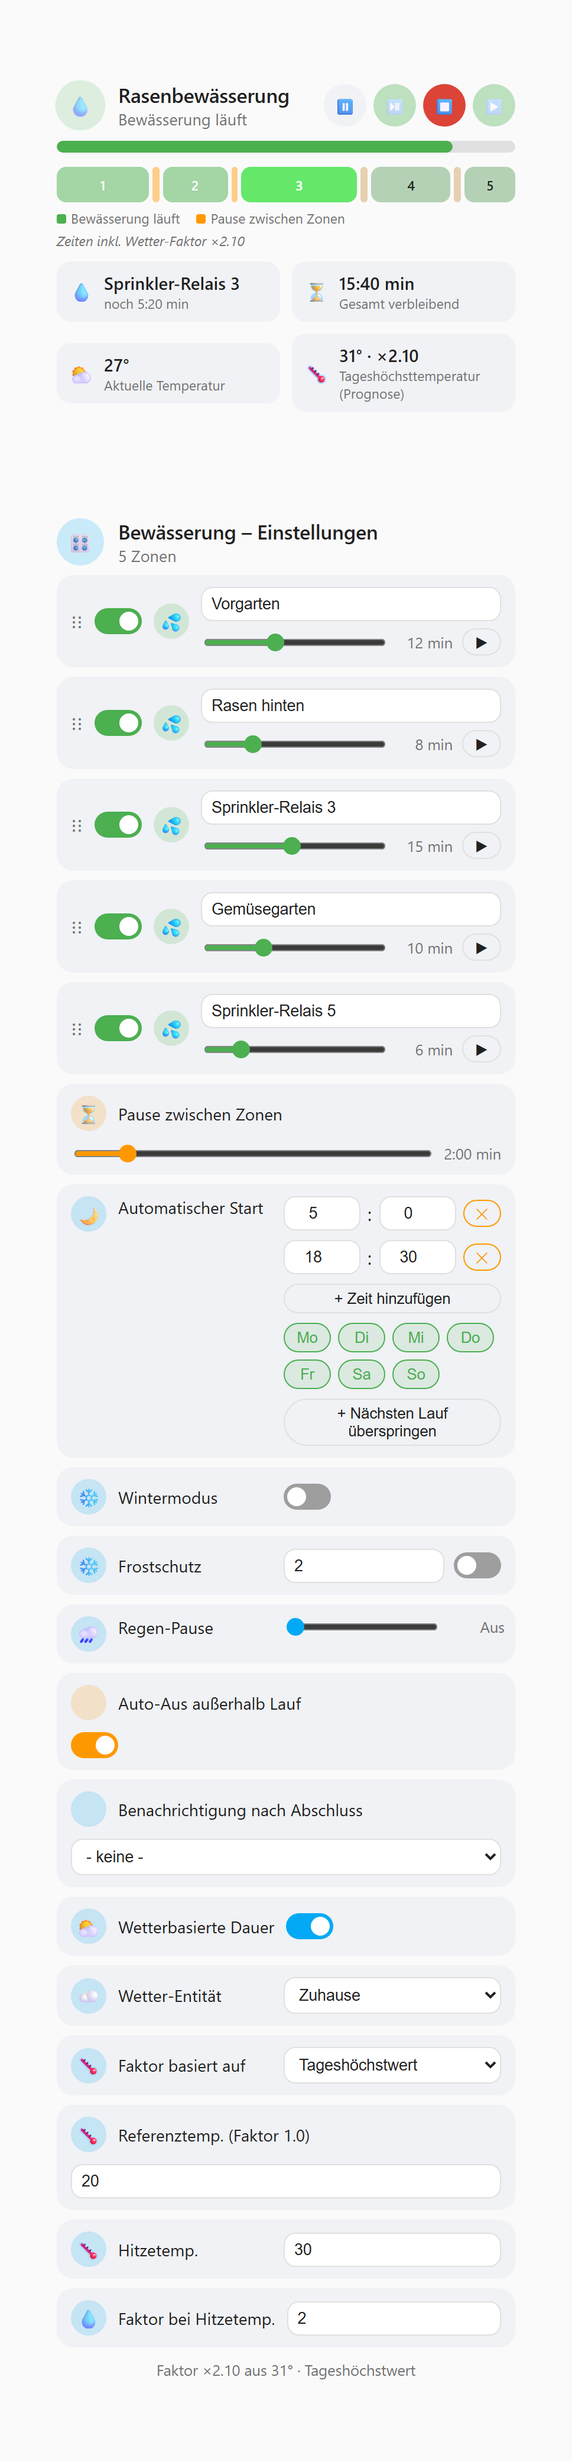
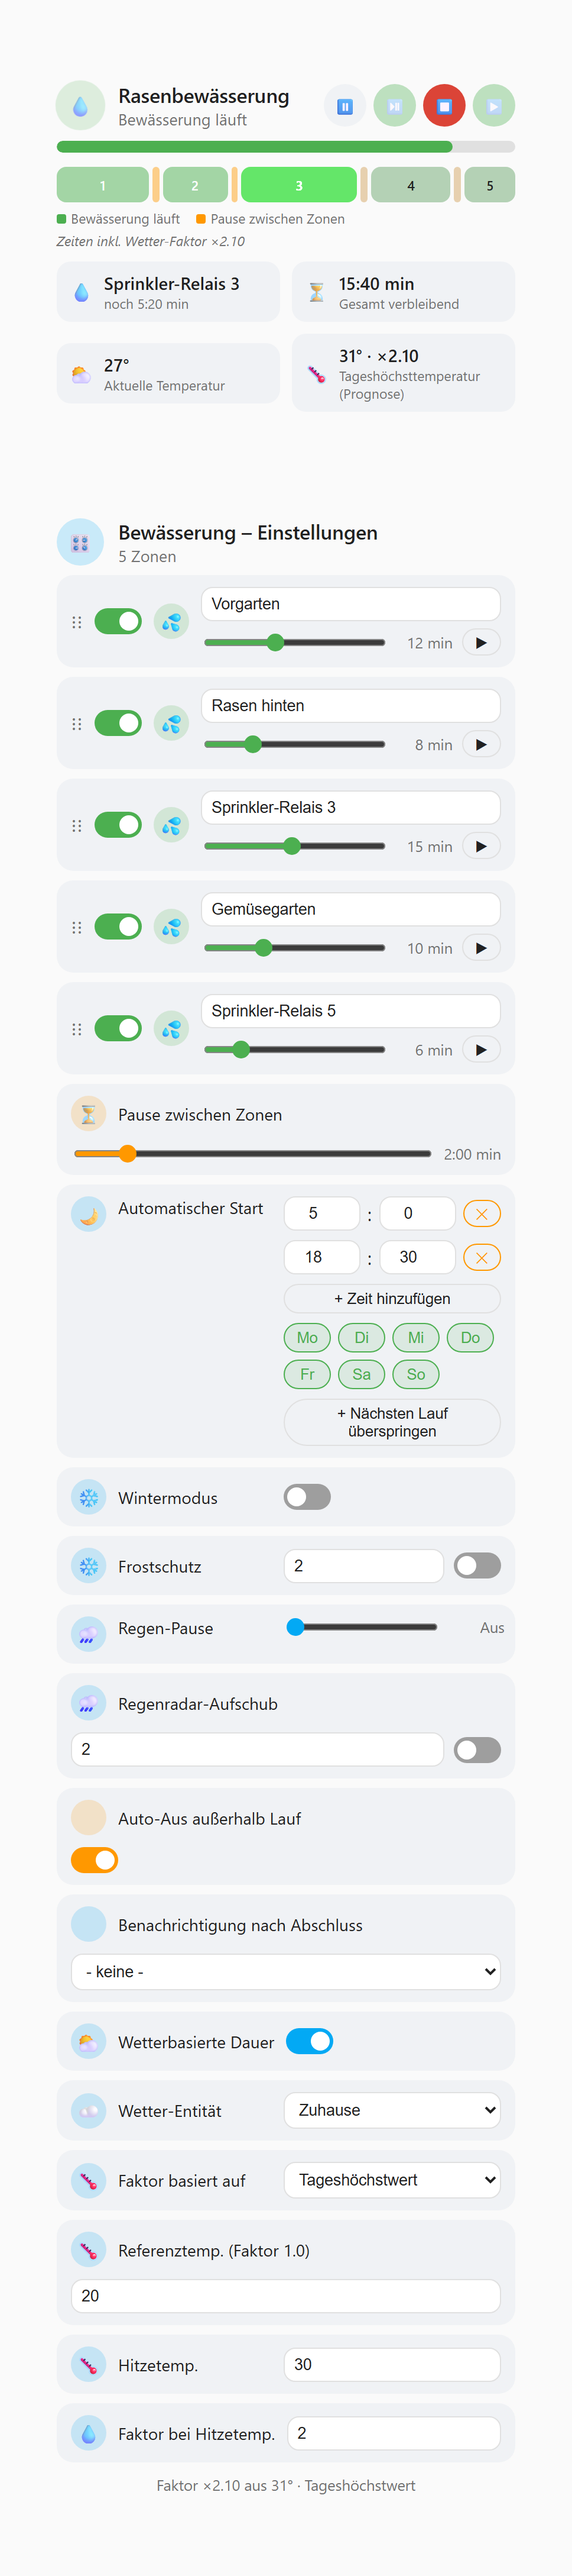
Docs (EN/DE), changelog and screenshots for v1.10.0 (#78)

diff --git a/custom_components/irrigation_sequencer/frontend/irrigation-sequencer-card.js b/custom_components/irrigation_sequencer/frontend/irrigation-sequencer-card.js
@@ -22,7 +22,7 @@ const DEFAULT_ZONE_DURATION_MINUTES = 10;
 // browser console, whether an update actually took effect versus just
 // looking "the same" as before. Keep this in step with manifest.json's
 // "version" on every release.
-const CARD_VERSION = "1.9.0";
+const CARD_VERSION = "1.10.0";
 // eslint-disable-next-line no-console
 console.info(
   `%c IRRIGATION-SEQUENCER-CARD %c v${CARD_VERSION} `,

diff --git a/README.de.md b/README.de.md
@@ -61,6 +61,12 @@ im Browser ausprobieren kannst.*
   mit Startzeit, Auslöser, Wassersekunden und Wetterfaktor gespeichert –
   die Status-Card zeigt die letzten Läufe, der volle Verlauf (30 Einträge)
   steht im Sensor-Attribut für Templates und Automationen
+- **Automatischer Regen-Aufschub** – geplante Läufe optional auslassen,
+  wenn die Prognose für heute mindestens eine Schwellwert-Menge Regen
+  erwartet (Standard 2 mm) – strikt Opt-in (Standard aus), mit eigenem
+  Schalter, Service und Status. Nutzt die Wetter-Entität aus dem
+  Wetter-Bereich; blockiert nie ohne Prognosedaten; manuelle Starts gehen
+  trotzdem
 - **Sequenz mit fester Reihenfolge** – jede Zone wird nacheinander bewässert,
   die Reihenfolge lässt sich in der Settings-Card per Drag & Drop ändern
 - **Individuelle Dauer pro Zone** – jede Zone hat ihre eigene Bewässerungsdauer (Minuten)
@@ -253,7 +259,7 @@ Nur die *anfängliche* Zonen-Auswahl ist ein klassischer "Einrichtungsdialog"
   Dialog-Einstellungen, sondern Live-Werte, die du direkt über die
   Settings-Card änderst (empfohlen), über die bereitgestellten Entitäten
   `switch.*_winter_mode` / `switch.*_weather_adjustment` /
-  `switch.*_frost_protection` und die `button.*`-Entitäten (Start, Stopp,
+  `switch.*_frost_protection` / `switch.*_rain_delay` und die `button.*`-Entitäten (Start, Stopp,
   Pause, Fortsetzen, Einzeltest, Skip), oder über die
   Services unten (praktisch für eigene Automationen, z. B. "Wintermodus jedes
   Jahr am 1. November aktivieren"). Der ▶-Button in einer
@@ -280,6 +286,7 @@ eigene Automationen:
 | `irrigation_sequencer.skip_next_run` | Nächsten geplanten Lauf einmal überspringen |
 | `irrigation_sequencer.clear_skip_next_run` | Vorgemerktes Überspringen zurücknehmen |
 | `irrigation_sequencer.set_frost_protection` | Geplante Läufe ab/unter Temperatur-Schwellwert blockieren |
+| `irrigation_sequencer.set_rain_delay` | Geplante Läufe bei Prognoseregen automatisch auslassen (Opt-in, Standard aus) |
 | `irrigation_sequencer.set_pause_between_zones` | Pause zwischen Zonen setzen |
 | `irrigation_sequencer.set_start_times` | Tägliche Startzeiten setzen (1–3) |
 | `irrigation_sequencer.set_rain_pause` | Regen-Pause für 1–24 Tage setzen |

diff --git a/README.md b/README.md
@@ -56,6 +56,11 @@ Home Assistant instance.*
   recorded with start time, trigger, watered seconds and weather factor -
   the status card shows the recent runs, the full history (30 entries)
   lives in the sensor attribute for templates and automations
+- **Automatic rain delay** - optionally skip scheduled runs when the
+  forecast expects at least a threshold amount of rain today (default
+  2 mm) - strictly opt-in (off by default), with its own switch, service
+  and status. Uses the weather entity from the weather section; never
+  blocks without forecast precipitation data; manual starts still work
 - **Sequential order** - each zone is irrigated one after another; the order
   can be changed by drag & drop directly in the settings card
 - **Per-zone duration** - every zone has its own irrigation duration (minutes)
@@ -231,7 +236,8 @@ else is a live setting, not a one-time config step:
   between zones, weather adjustment**: these are not part of a config dialog
   at all - they are live settings you change directly through the settings
   card (recommended), through the exposed `switch.*_winter_mode` /
-  `switch.*_weather_adjustment` / `switch.*_frost_protection` entities and
+  `switch.*_weather_adjustment` / `switch.*_frost_protection` /
+  `switch.*_rain_delay` entities and
   the `button.*` entities (start, stop, pause, resume, single test, skip),
   or via the services below (handy for your own automations, e.g. "turn on
   winter mode every November 1st"). The ▶ button on a zone's
@@ -257,6 +263,7 @@ automations:
 | `irrigation_sequencer.skip_next_run` | Skip the upcoming scheduled run once |
 | `irrigation_sequencer.clear_skip_next_run` | Take back a pending one-shot skip |
 | `irrigation_sequencer.set_frost_protection` | Block scheduled runs at/below a temperature threshold |
+| `irrigation_sequencer.set_rain_delay` | Auto-skip scheduled runs from forecast rain (opt-in, off by default) |
 | `irrigation_sequencer.set_pause_between_zones` | Set the pause between zones |
 | `irrigation_sequencer.set_start_times` | Set the daily start times (1-3) |
 | `irrigation_sequencer.set_rain_pause` | Pause irrigation for 1-24 days |

diff --git a/CHANGELOG.md b/CHANGELOG.md
@@ -5,6 +5,20 @@ All notable changes to this project are documented here. Versioning follows
 `custom_components/irrigation_sequencer/manifest.json` and tagged as a
 GitHub release (`vX.Y.Z`) once pushed.
 
+## [1.10.0] - 2026-10-03
+
+- **Automatic rain delay** (fixes
+  [#78](https://github.com/ReneSattler/ha-irrigation-sequencer/issues/78)):
+  strictly opt-in (default off) block of scheduled runs when the daily
+  forecast expects at least a threshold amount of rain for today
+  (default 2 mm, 0.5..20 mm range). The expected amount is cached from
+  the same daily fetch as the forecast high and refreshed on the same
+  timer plus before every run. Distinct `rain_delay` status, `next_run`
+  stays empty while blocking, manual starts still work, and missing
+  entity/forecast/precipitation data never blocks (fail open). New
+  `irrigation_sequencer.set_rain_delay` service, a rain-delay switch
+  entity, and a settings-card switch plus threshold input.
+
 ## [1.9.0] - 2026-10-03
 
 - **Frost protection** (fixes
